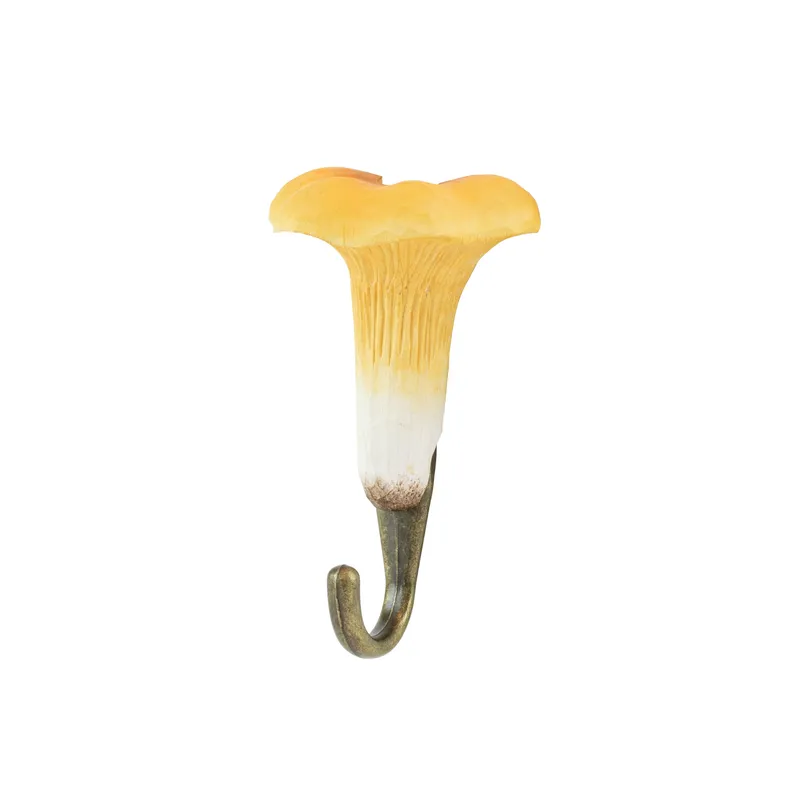
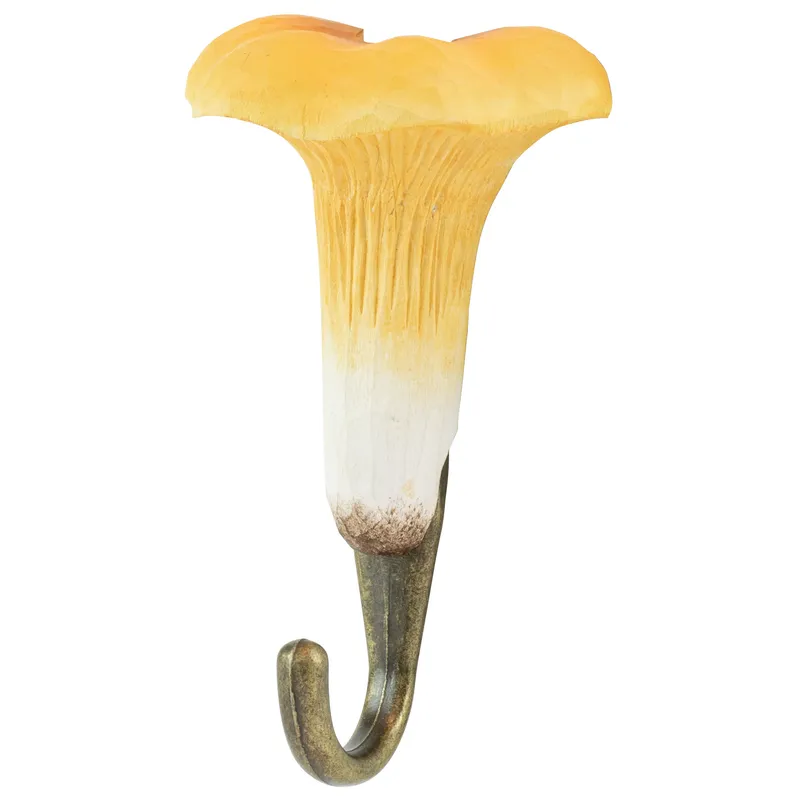
Add growing kit copy, photos and display prices to the live catalog
Eight products added in 23f0207 had no entry in the display price map and
fell back to 0 kr. Amounts are taken from the live Stripe account.

Changed region(s): [[0.2188, 0.0, 0.7812, 1.0]]

diff --git a/src/lib/stripe.ts b/src/lib/stripe.ts
@@ -32,6 +32,14 @@ const placeholderPrices: Record<string, Price> = {
   price_1ULlkF09vQZGLxR7dSzAs50R: { amount: 24500, currency: 'sek' }, // svampkrok-kantarell
   price_1ULlkH09vQZGLxR7o2cVaoY1: { amount: 24500, currency: 'sek' }, // svampkrok-stensopp
   price_1ULlkJ09vQZGLxR73vY6ESHb: { amount: 24500, currency: 'sek' }, // svampkrok-flugsvamp
+  price_1UTL9E09vQZGLxR7wFnq03eq: { amount: 18000, currency: 'sek' }, // pluggar-ostronskivling
+  price_1UTL8V09vQZGLxR7daWlkehA: { amount: 19500, currency: 'sek' }, // odlingskit-rosa-ostronskivling-rund
+  price_1UTL7v09vQZGLxR7shWLXHD5: { amount: 19500, currency: 'sek' }, // odlingskit-citronmussling-rund
+  price_1UTL7E09vQZGLxR7EJ0N9tKU: { amount: 21000, currency: 'sek' }, // odlingskit-kungsmussling-fyrkant
+  price_1UTL6f09vQZGLxR7ZuxBFtzL: { amount: 21000, currency: 'sek' }, // odlingskit-rosa-ostronskivling-fyrkant
+  price_1UTL4k09vQZGLxR7WZv9pgRG: { amount: 21000, currency: 'sek' }, // odlingskit-igelkottstaggsvamp-fyrkant
+  price_1UTL3Y09vQZGLxR7DFSqWmXR: { amount: 40000, currency: 'sek' }, // plockpase-broderad
+  price_1UTL2D09vQZGLxR7CuiZ1V2P: { amount: 35000, currency: 'sek' }, // plockpase
 
   // Shipping method (shippingMethods.ts) — DHL only, sandbox then live.
   price_1UM4sb1HnhNtqQNv3Q8EJ6fz: { amount: 6000, currency: 'sek' }, // dhl

diff --git a/src/data/productImageCounts.generated.ts b/src/data/productImageCounts.generated.ts
@@ -4,6 +4,12 @@ export const productImageCounts: Record<string, number> = {
   "flaskkork-ekorre": 3,
   "flaskkork-groda": 3,
   notknappare: 2,
+  "odlingskit-citronmussling-rund": 1,
+  "odlingskit-igelkottstaggsvamp-fyrkant": 3,
+  "odlingskit-kungsmussling-fyrkant": 3,
+  "odlingskit-rosa-ostronskivling-fyrkant": 3,
+  "odlingskit-rosa-ostronskivling-rund": 1,
+  "pluggar-ostronskivling": 3,
   "skrin-skata": 3,
   "svampkrok-flugsvamp": 3,
   "svampkrok-kantarell": 3,
